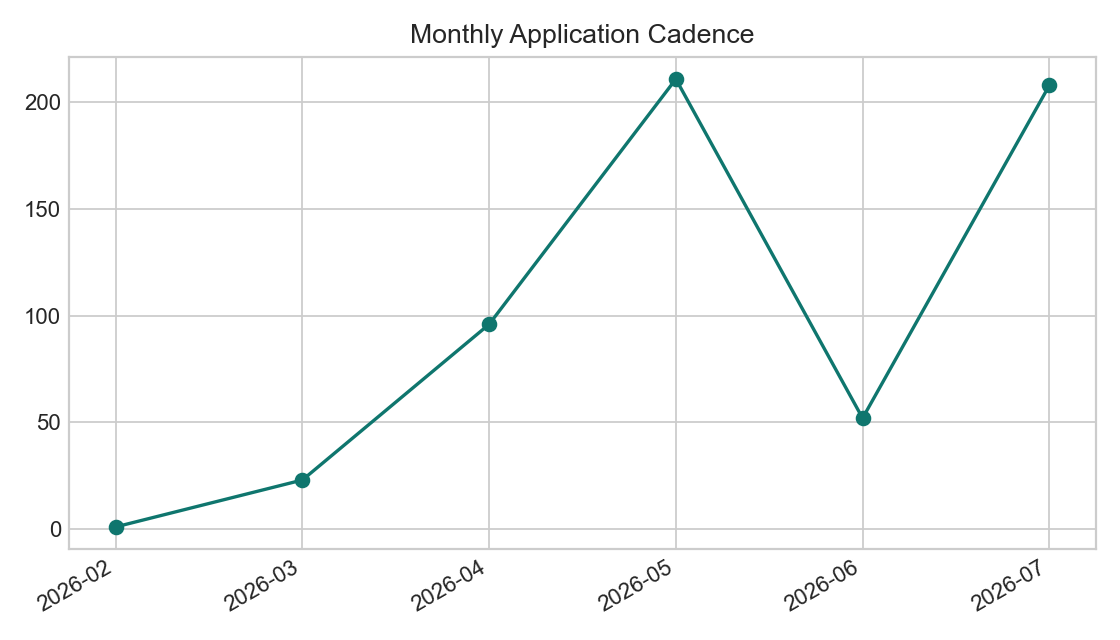
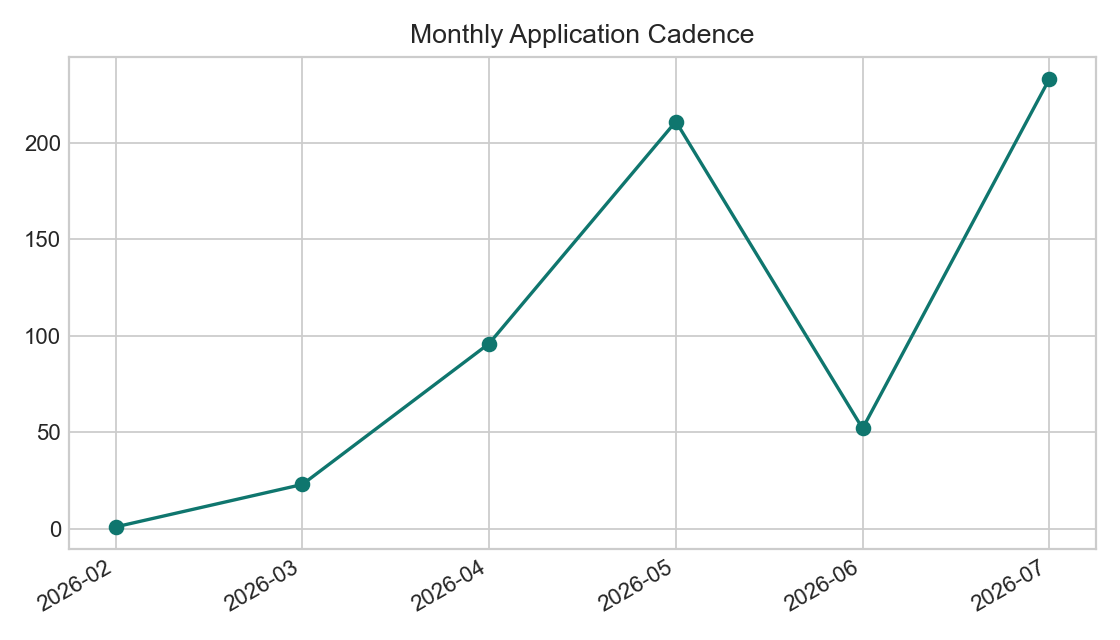
Refresh analytics for 767 merged roles (2026-07-28)

diff --git a/data/daily_summary.md b/data/daily_summary.md
@@ -1,6 +1,6 @@
 # Daily Job Search Summary
 
-_Last refreshed: 2026-07-28T18:23:02-07:00_
+_Last refreshed: 2026-07-28T22:22:47-07:00_
 
 ## Positioning
 
@@ -10,37 +10,37 @@ _Last refreshed: 2026-07-28T18:23:02-07:00_
 
 ## Snapshot
 
-- Tracked roles: 742
-- Active roles: 407
+- Tracked roles: 767
+- Active roles: 421
 - Response rate: 0.8%
 - LinkedIn outreach sent: 28
 - Pending pipeline items: 155
 - Recommended pipeline items: 36
-- Average evaluated score: 3.39
+- Average evaluated score: 3.37
 
 ## Status Breakdown
 
-- applied: 393
+- applied: 407
 - applied ✅: 1
 - discarded: 5
 - evaluated: 10
 - interview: 4
 - oa完成: 1
-- rejected: 99
-- skip: 78
+- rejected: 100
+- skip: 88
 
 ## Recent Activity
 
-- 2026-07-27: JRK | Analyst - Business Intelligence (47934) | applied
-- 2026-07-27: Billtrust | Associate Data Scientist | skip
-- 2026-07-27: Centrillion Technologies | Bioinformatics Analyst | skip
-- 2026-07-27: JRK Property Holdings | Analyst - Business Intelligence | applied
-- 2026-07-26: NextGen | Data Analyst II | applied
-- 2026-07-26: T-Mobile | Analyst, Business Intelligence | applied
-- 2026-07-26: Morning Star | Dashboard and Report Developer | applied
-- 2026-07-26: Principal Financial Group | Analyst, Data Management | skip
-- 2026-07-26: CorVel Corporation | Data Analyst | discarded
-- 2026-07-26: Epoch AI | Data Scientist (Contract) | skip
+- 2026-07-28: Alta | Civic Data Analyst (Sustainable Mobility) | applied
+- 2026-07-28: Omega | Junior Data Analyst - Healthcare Operations & Process Analytics | applied
+- 2026-07-28: WSP | Early Career Project Controls Data Analyst | applied
+- 2026-07-28: Core Specialty | Actuarial Data Analyst | applied
+- 2026-07-28: LexisNexis | Data Scientist I (DSAP) | applied
+- 2026-07-28: Flatiron Health | Data Analyst - Product Data Science | applied
+- 2026-07-28: Cornerstone Research | Data Analyst | applied
+- 2026-07-28: Foxconn | Data Analyst | applied
+- 2026-07-28: Capgemini | Junior Data Engineer/Junior Data Scientist | applied
+- 2026-07-28: University of Chicago | Data Scientist I supporting social science research, analytics, and AI initiatives | applied
 
 ## Recommended Opportunity Queue
 
